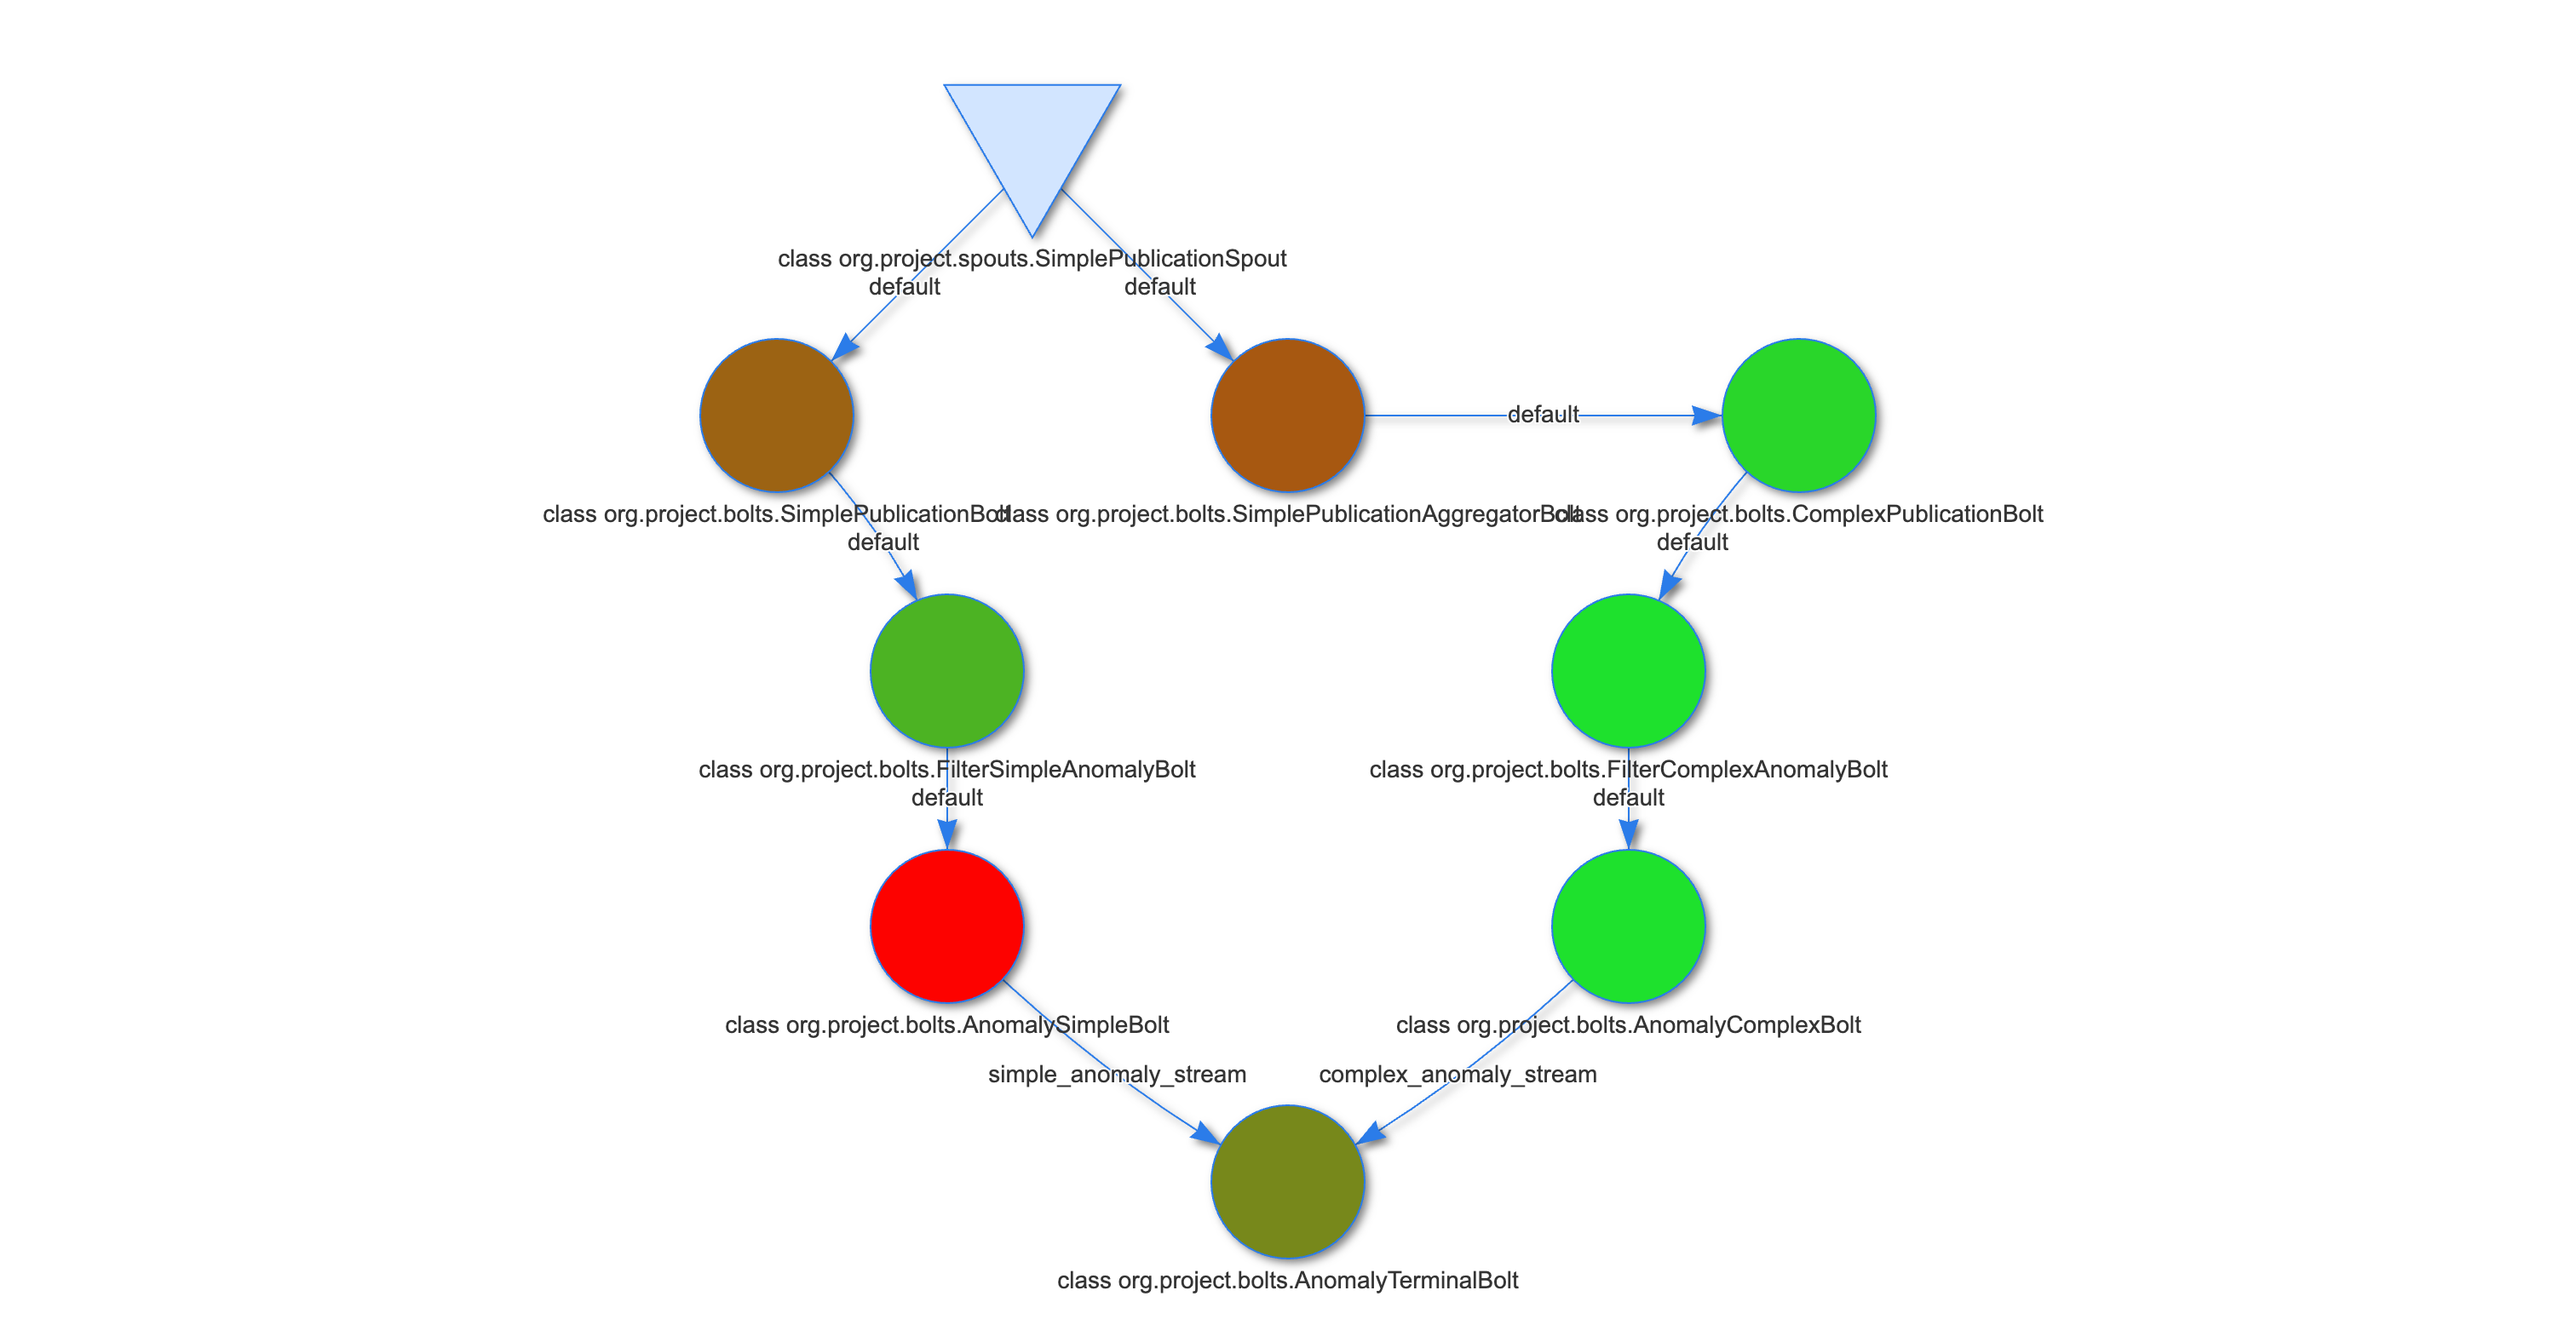
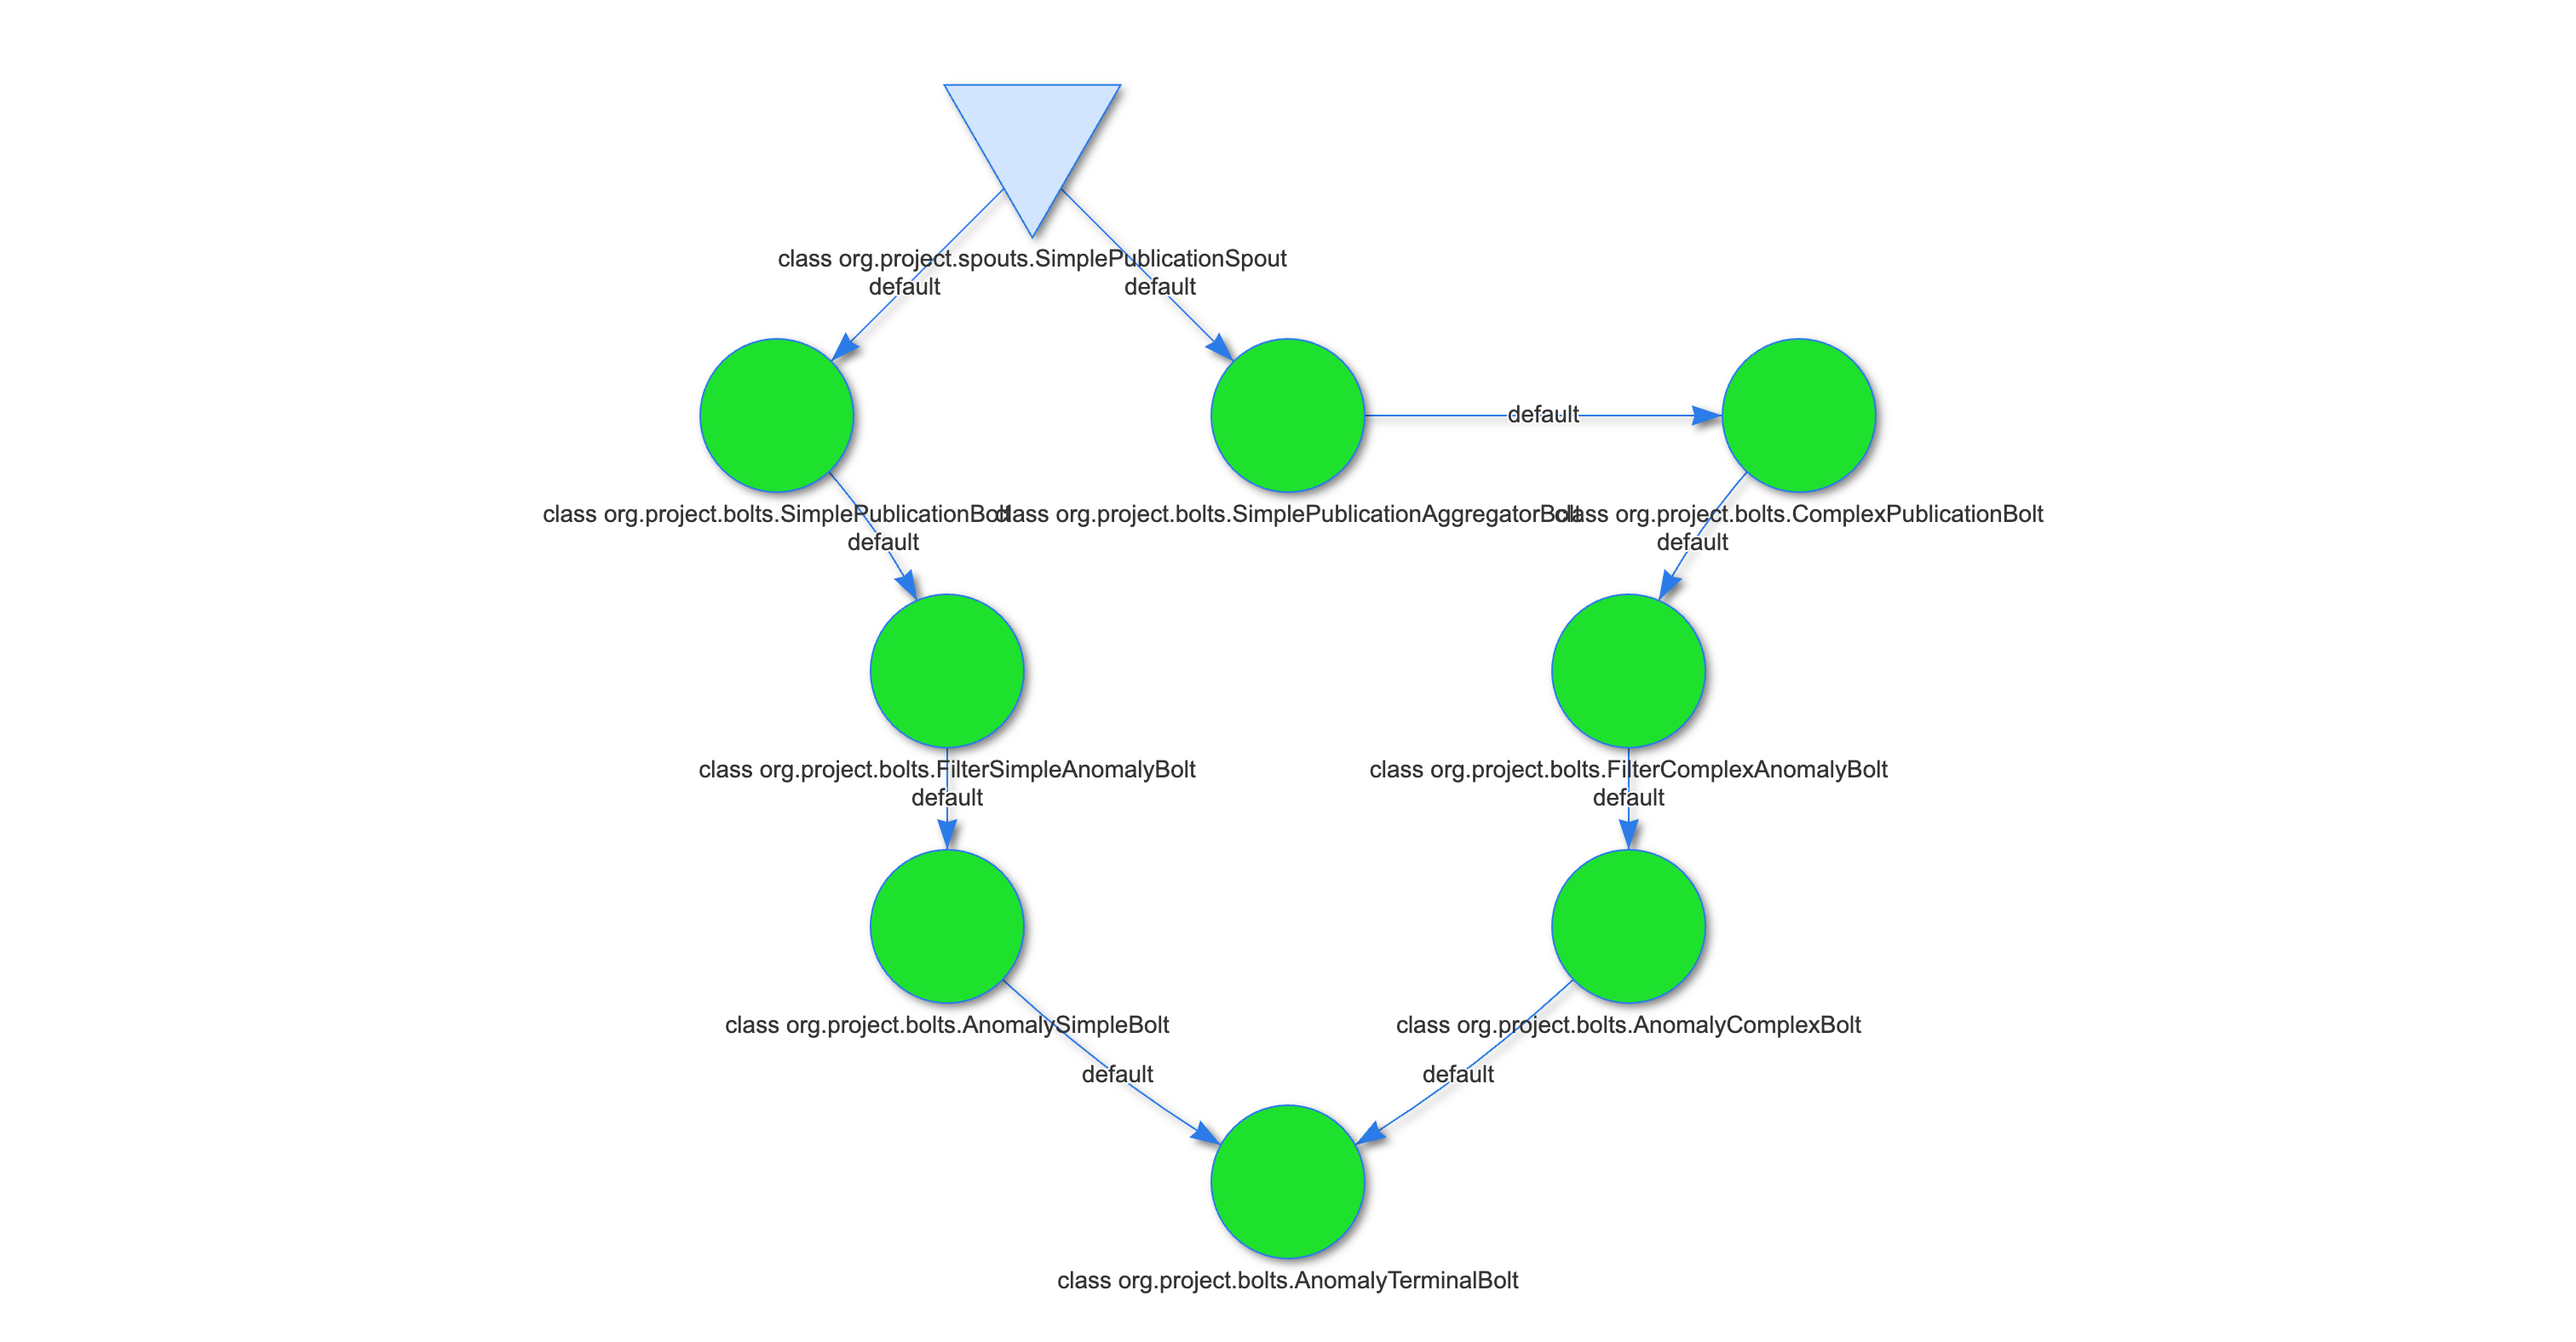
[Project] ^ simplified terminal bolt for anomalies

diff --git a/FinalProject/src/main/java/org/project/bolts/AnomalyTerminalBolt.java b/FinalProject/src/main/java/org/project/bolts/AnomalyTerminalBolt.java
@@ -5,7 +5,6 @@ import org.apache.storm.task.OutputCollector;
 import org.apache.storm.task.TopologyContext;
 import org.apache.storm.topology.OutputFieldsDeclarer;
 import org.apache.storm.topology.base.BaseRichBolt;
-import org.apache.storm.tuple.Fields;
 import org.apache.storm.tuple.Tuple;
 
 import java.text.MessageFormat;
@@ -26,19 +25,20 @@ public class AnomalyTerminalBolt extends BaseRichBolt {
 
     @Override
     public void execute(Tuple input) {
-        var streamId = input.getSourceStreamId();
-        if (streamId.equals("simple_anomaly_stream")) {
+        if (input.contains("AnomalyType")) {
             var anomalyType = input.getValueByField("AnomalyType");
-            var sp = (org.project.models.ProtoSimplePublication.SimplePublication) input.getValueByField("SimplePublication");
-            LOG.info(MessageFormat.format("Simple Publication Event received: #{0}\n{1}\n{2}", eventsReceived, anomalyType, sp));
-        }
-        else if (streamId.equals("complex_anomaly_stream")) {
-            var anomalyType = input.getValueByField("AnomalyType");
-            var cp = (org.project.models.ProtoComplexPublication.ComplexPublication) input.getValueByField("ComplexPublication");
-            LOG.info(MessageFormat.format("Complex Publication Event received: #{0}\n{1}\n{2}", eventsReceived, anomalyType, cp));
+            if (input.contains("SimplePublication")) {
+                var sp = (org.project.models.ProtoSimplePublication.SimplePublication) input.getValueByField("SimplePublication");
+                LOG.info(MessageFormat.format("Simple Publication Event received: #{0}\n{1}\n{2}", eventsReceived, anomalyType, sp));
+            }
+
+            if (input.contains("ComplexPublication")) {
+                var cp = (org.project.models.ProtoComplexPublication.ComplexPublication) input.getValueByField("ComplexPublication");
+                LOG.info(MessageFormat.format("Complex Publication Event received: #{0}\n{1}\n{2}", eventsReceived, anomalyType, cp));
+            }
         }
         else {
-            LOG.info(MessageFormat.format("Unknown streamId: {0}", streamId));
+            LOG.info(MessageFormat.format("Unknown fields: {0}", input.getFields()));
         }
 
         this.collector.ack(input);

diff --git a/FinalProject/src/main/java/org/project/bolts/AnomalyComplexBolt.java b/FinalProject/src/main/java/org/project/bolts/AnomalyComplexBolt.java
@@ -31,7 +31,7 @@ public class AnomalyComplexBolt  extends BaseRichBolt {
 
         var anomalyType = input.getStringByField("AnomalyType");
         var cp = (ProtoComplexPublication.ComplexPublication)(input.getValueByField("ComplexPublication"));
-        this.collector.emit("complex_anomaly_stream", input, new Values(anomalyType, cp));
+        this.collector.emit(input, new Values(anomalyType, cp));
 
         LOG.info(MessageFormat.format("Processed anomaly <{0}>!", input));
         this.collector.ack(input);
@@ -40,7 +40,7 @@ public class AnomalyComplexBolt  extends BaseRichBolt {
 
     @Override
     public void declareOutputFields(OutputFieldsDeclarer declarer) {
-        declarer.declareStream("complex_anomaly_stream", new Fields("AnomalyType", "ComplexPublication"));
+        declarer.declare(new Fields("AnomalyType", "ComplexPublication"));
     }
 
     @Override

diff --git a/FinalProject/src/main/java/org/project/bolts/AnomalySimpleBolt.java b/FinalProject/src/main/java/org/project/bolts/AnomalySimpleBolt.java
@@ -31,7 +31,7 @@ public class AnomalySimpleBolt extends BaseRichBolt {
 
         var anomalyType = input.getStringByField("AnomalyType");
         var sp = (ProtoSimplePublication.SimplePublication)(input.getValueByField("SimplePublication"));
-        this.collector.emit("simple_anomaly_stream", input, new Values(anomalyType, sp));
+        this.collector.emit(input, new Values(anomalyType, sp));
 
         LOG.info(MessageFormat.format("Processed anomaly <{0}>!", input));
         this.collector.ack(input);
@@ -40,7 +40,7 @@ public class AnomalySimpleBolt extends BaseRichBolt {
 
     @Override
     public void declareOutputFields(OutputFieldsDeclarer declarer) {
-        declarer.declareStream("simple_anomaly_stream", new Fields("AnomalyType", "SimplePublication"));
+        declarer.declare(new Fields("AnomalyType", "SimplePublication"));
     }
 
     @Override

diff --git a/FinalProject/src/main/java/org/project/Application.java b/FinalProject/src/main/java/org/project/Application.java
@@ -162,8 +162,8 @@ public class Application extends ConfigurableTopology {
                 anomalyTerminalBolt,
                 1
                 )
-                .fieldsGrouping(AnomalySimpleBolt.ID, "simple_anomaly_stream", new Fields("AnomalyType", "SimplePublication"))
-                .fieldsGrouping(AnomalyComplexBolt.ID, "complex_anomaly_stream", new Fields("AnomalyType", "ComplexPublication"));
+                .fieldsGrouping(AnomalySimpleBolt.ID,  new Fields("AnomalyType", "SimplePublication"))
+                .fieldsGrouping(AnomalyComplexBolt.ID,  new Fields("AnomalyType", "ComplexPublication"));
 
         return builder;
     }
